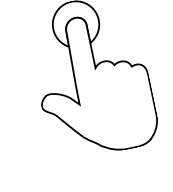
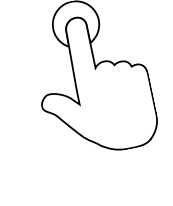
Fixed tap cue and responsiveness on taller phones

Changed region(s): [[0.2312, 0.0, 0.9249, 0.8125]]

diff --git a/variant-a-game/gut-run.css b/variant-a-game/gut-run.css
@@ -1,34 +1,47 @@
 :root {
-  --navy: #0c1e46;
-  --paper: #fcfcfc;
-  --stage-width: min(100vw, 56.25vh);
+  --navy: #0b1e49;
+  --paper: #fff;
+  --viewport-height: 100vh;
+  --stage-width: min(100vw, var(--viewport-height) * 9 / 16);
   --stage-height: calc(var(--stage-width) * 16 / 9);
-  --header-bottom: calc((100vh - var(--stage-height)) / 2 + var(--stage-width) * 58 / 360);
+  --stage-inset: calc((var(--viewport-height) - var(--stage-height)) / 2);
+  --stage-bottom: calc(var(--viewport-height) - var(--stage-inset));
+  --header-bottom: calc(var(--stage-inset) + var(--stage-width) * 58 / 360);
 }
 
 @supports (height: 100dvh) {
-  :root {
-    --stage-width: min(100vw, 56.25dvh);
-    --header-bottom: calc((100dvh - var(--stage-height)) / 2 + var(--stage-width) * 58 / 360);
-  }
+  :root { --viewport-height: 100dvh; }
 }
 
 body {
+  --footer-color: var(--navy);
   margin: 0;
-  height: 100vh;
-  height: 100dvh;
+  height: var(--viewport-height);
   display: grid;
   place-items: center;
-  background: linear-gradient(var(--paper) var(--header-bottom), var(--navy) var(--header-bottom));
+  background: linear-gradient(
+    var(--paper) var(--header-bottom),
+    var(--navy) var(--header-bottom) var(--stage-bottom),
+    var(--footer-color) var(--stage-bottom)
+  );
   font-family: system-ui, sans-serif;
 }
+
+body:is([data-state="ready"], [data-state="playing"]) {
+  --footer-color: #d89c95;
+  touch-action: manipulation;
+}
+
+body[data-state="ready"] { cursor: pointer; }
 
 .stage {
   position: relative;
   width: var(--stage-width);
   height: var(--stage-height);
   overflow: hidden;
-  background: var(--navy) url("assets/bg.jpg") center / 100% 100%;
+  background:
+    linear-gradient(var(--paper) 9.0625%, transparent 9.0625%),
+    var(--navy) url("assets/bg.jpg") center / 100% 100%;
 }
 
 .layer,
@@ -44,11 +57,10 @@ body {
 .layer { pointer-events: none; }
 .logo { z-index: 1; }
 .tutorial { visibility: hidden; }
-.stage:is([data-state="ready"], [data-state="playing"]) .tutorial { visibility: visible; }
+:is([data-state="ready"], [data-state="playing"]) .tutorial { visibility: visible; }
 
 #playfield,
 .start {
-  touch-action: manipulation;
   user-select: none;
 }
 
@@ -121,7 +133,7 @@ button {
     --ease-out: cubic-bezier(0.22, 1, 0.36, 1);
   }
 
-  .stage:is([data-state="ready"], [data-state="playing"]) .tutorial {
+  :is([data-state="ready"], [data-state="playing"]) .tutorial {
     animation: rise-in 500ms var(--ease-out) both;
   }
 

diff --git a/variant-a-game/gut-run.js b/variant-a-game/gut-run.js
@@ -24,6 +24,7 @@ const placements = [
   ['txt9', 2030, 325],
 ];
 
+const ad = document.body;
 const stage = document.querySelector('.stage');
 const canvas = document.getElementById('playfield');
 const context = canvas.getContext('2d');
@@ -155,7 +156,7 @@ function setSound(next) {
 
 function showScreen(next) {
   state = next;
-  stage.dataset.state = next;
+  ad.dataset.state = next;
   start.hidden = next !== 'ready';
   canvas.hidden = next !== 'ready' && next !== 'playing';
   failed.hidden = next !== 'failed';
@@ -244,12 +245,15 @@ function jump() {
 }
 
 start.addEventListener('click', beginRun);
+ad.addEventListener('click', event => {
+  if (event.target === ad) beginRun();
+});
 replay.addEventListener('click', () => {
   readyRun();
   start.focus({ preventScroll: true });
 });
-canvas.addEventListener('pointerdown', event => {
-  if (event.isPrimary && event.button === 0) jump();
+ad.addEventListener('pointerdown', event => {
+  if (event.isPrimary && event.button === 0 && (event.target === ad || event.target === canvas)) jump();
 });
 canvas.addEventListener('keydown', event => {
   if (event.code !== 'Space' && event.code !== 'ArrowUp') return;

diff --git a/variant-a-game/index.html b/variant-a-game/index.html
@@ -7,8 +7,8 @@
   <link rel="stylesheet" href="gut-run.css">
   <script src="gut-run.js" defer></script>
 </head>
-<body>
-  <main class="stage" aria-label="Gut Run" data-state="loading">
+<body data-state="loading">
+  <main class="stage" aria-label="Gut Run">
     <canvas id="playfield" width="720" height="1280" tabindex="-1"
       aria-label="Spielfeld. Tippen oder die Leertaste drücken, um zu springen."></canvas>
     <img class="layer logo" src="assets/logo.png" alt="Your Logo">
